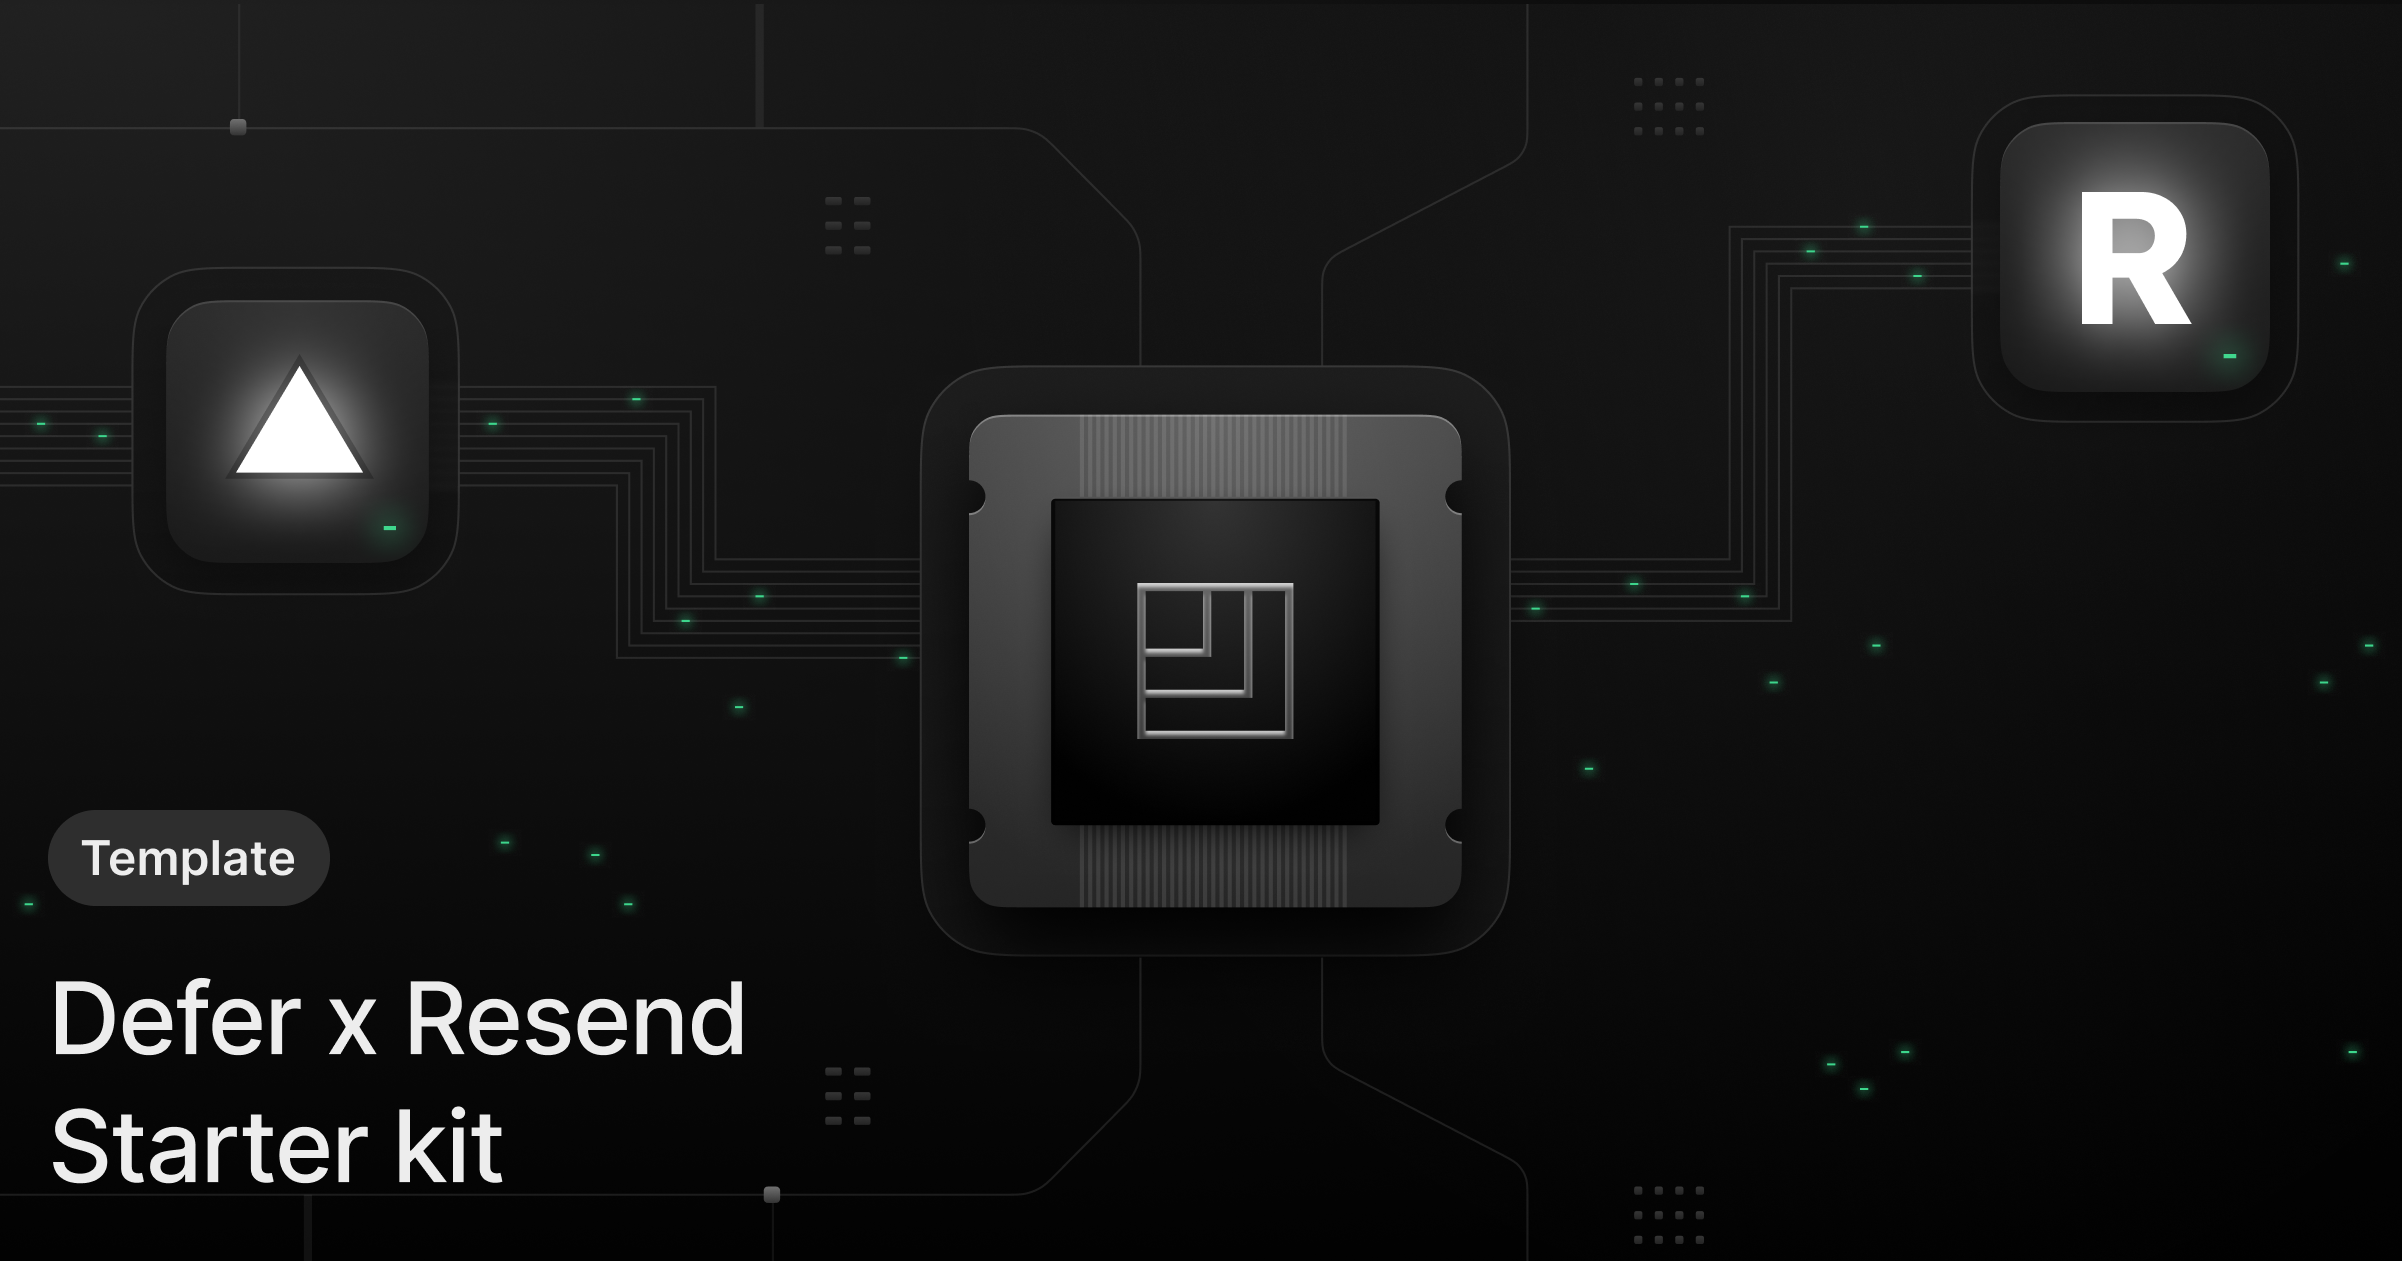
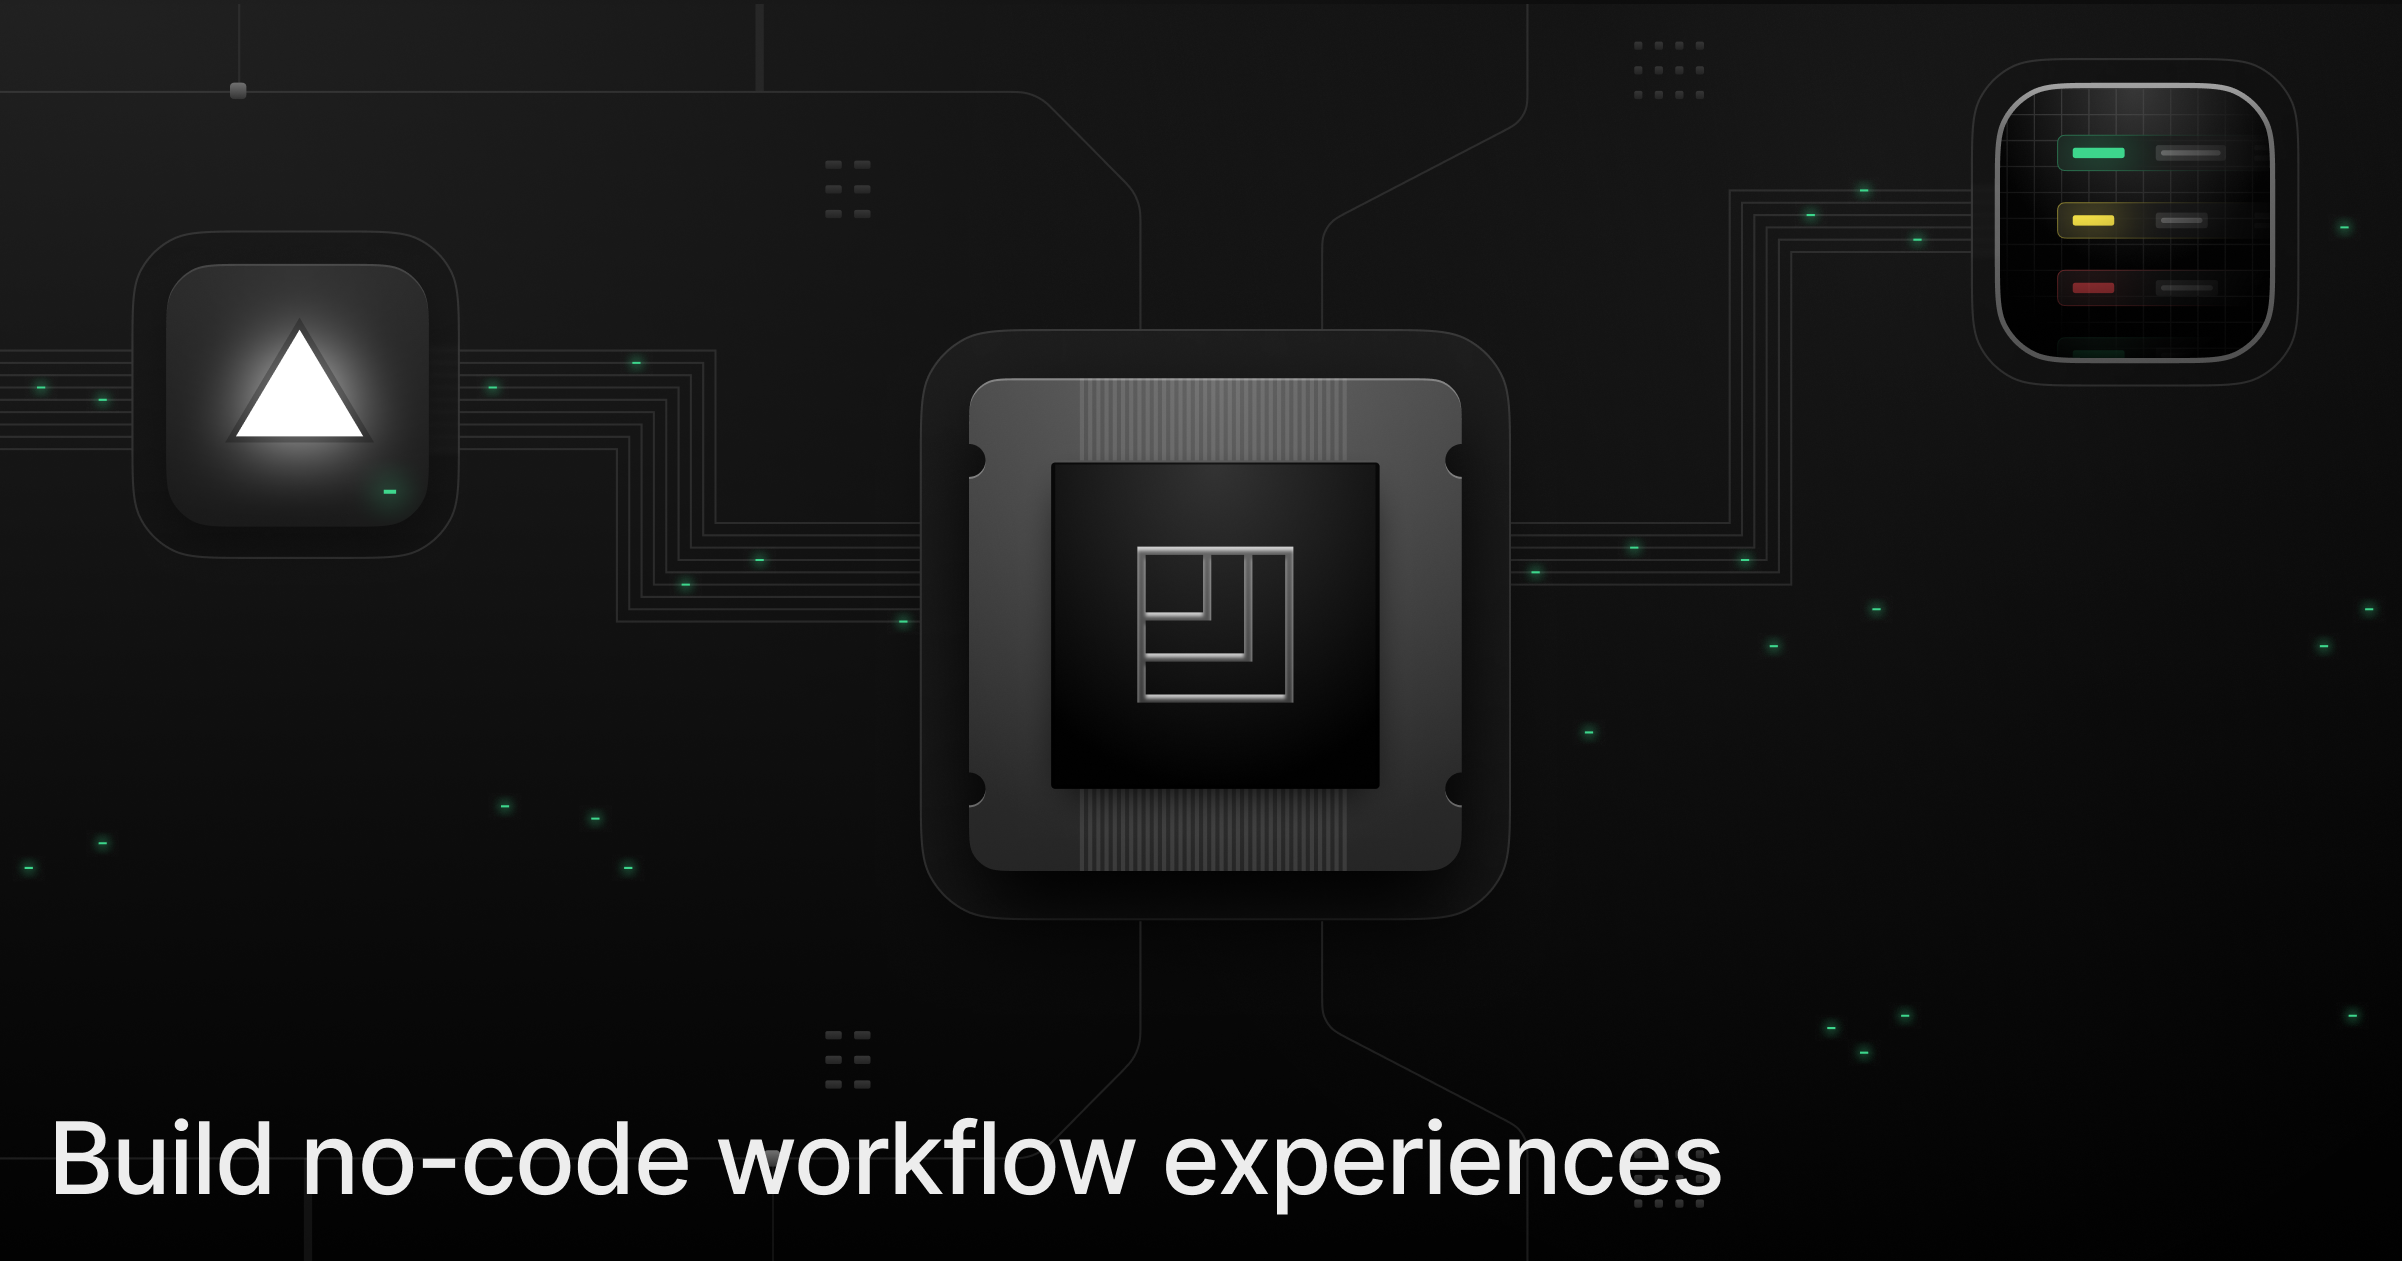
improvements

diff --git a/nextjs/user-workflow-template/app/page.tsx b/nextjs/user-workflow-template/app/page.tsx
@@ -12,6 +12,7 @@ import ReactFlow, {
   MarkerType,
   useReactFlow,
   ReactFlowProvider,
+  ReactFlowInstance,
 } from "reactflow";
 
 import { Action, Step, broofa } from "@/utils/workflow";
@@ -31,7 +32,7 @@ const START_EDGE: Edge<any> = {
   id: "first-edge",
   source: "trigger",
   target: "node-0",
-  type: "step",
+  type: "smoothstep",
 
   markerEnd: {
     type: MarkerType.ArrowClosed,
@@ -55,7 +56,7 @@ const END_EDGE: Edge<any> = {
   source: "trigger",
 
   target: "end",
-  type: "step",
+  type: "smoothstep",
   markerEnd: {
     type: MarkerType.ArrowClosed,
   },
@@ -79,7 +80,8 @@ function stepToLabel(
 }
 
 function Main() {
-  const { setViewport } = useReactFlow();
+  const [reactFlowInstance, setReactFlowInstance] =
+    useState<ReactFlowInstance<any, any>>();
   const [nodes, setNodes] = useNodesState([START_NODE, END_NODE(1)]);
   const [edges, setEdges] = useEdgesState([END_EDGE]);
 
@@ -138,7 +140,7 @@ function Main() {
           id: `target-${idx}`,
           source: `node-${idx}`,
           target: idx == s.length - 1 ? "end" : `node-${idx + 1}`,
-          type: "step",
+          type: "smoothstep",
           // animated: true,
           markerEnd: {
             type: MarkerType.ArrowClosed,
@@ -147,10 +149,6 @@ function Main() {
       ]);
     }
   }, [steps, stepAction]);
-
-  useEffect(() => {
-    setViewport({ x: 0, y: 0, zoom: 1 });
-  });
 
   const setStepAction: ChangeEventHandler<HTMLSelectElement> = useCallback(
     (e) => {
@@ -166,31 +164,40 @@ function Main() {
   }, [steps]);
 
   useEffect(() => {
-    const interval = setInterval(
+    const interval = setInterval(() => {
+      if (reactFlowInstance) {
+        reactFlowInstance.fitView();
+      }
       // leverage Server Actions to regurarly refresh the steps statuses
-      () => {
-        if (workflowID) {
-          listStepsStatus(workflowID!, steps).then((data) => {
-            console.log(data);
-            setNodes([
-              START_NODE,
-              ...steps.map(({ action, args }, idx) => ({
-                id: `node-${idx}`,
-                data: { label: stepToLabel(action, args, data[idx]) },
-                position: { x: 200 * (idx + 1), y: 100 },
-              })),
-              END_NODE(steps.length + 1, data[data.length - 1].data.length),
-            ]);
-          });
-        }
-      },
-      1000
-    );
+      if (workflowID) {
+        listStepsStatus(workflowID!, steps).then((data) => {
+          setNodes([
+            START_NODE,
+            ...steps.map(({ action, args }, idx) => ({
+              id: `node-${idx}`,
+              data: { label: stepToLabel(action, args, data[idx]) },
+              position: { x: 200 * (idx + 1), y: 100 },
+            })),
+            END_NODE(steps.length + 1, data[data.length - 1].data.length),
+          ]);
+          const workflowFinished = data[data.length - 1].data.length === 1000;
+          if (workflowFinished) {
+            setWorkflowId(undefined);
+          }
+        });
+      }
+    }, 1000);
     return () => clearInterval(interval);
   });
 
+  const resetWorkflow = useCallback(() => {
+    updateSteps([]);
+    setNodes([START_NODE, END_NODE(1)]);
+    setEdges([END_EDGE]);
+  }, []);
+
   return (
-    <div className="flex-1 w-full flex flex-col gap-20 items-center">
+    <div className="flex-1 w-full flex flex-col gap-6 items-center">
       <nav className="w-full flex justify-center border-b border-b-foreground/10 h-16">
         <div className="w-full max-w-4xl flex justify-between items-center p-3 text-sm">
           <Image src={logo} alt={"Defer"} className="flex-1 max-w-24" />
@@ -216,51 +223,52 @@ function Main() {
         </div>
       </nav>
 
-      <div className="flex flex-col gap-20 max-w-4xl px-3">
-        <main className="flex flex-col gap-4 justify-evenly">
-          <div className="py-2 px-3 rounded-md border flex gap-6 flex-col">
-            <div>
-              <h2 className="text-xl font-bold">
-                Build a user notification workflow
-              </h2>
-              <p>
-                <em>TODO</em>
-              </p>
-            </div>
-            <div className="flex">
-              <select onChange={setStepAction}>
-                <option value="wait-1">Wait 1 sec</option>
-                <option value="wait-3">Wait 3 secs</option>
-                <option value="wait-5">Wait 5 secs</option>
-                <option value="sendNotification">Send a notification</option>
-              </select>
-              <button
-                className={`ml-3 py-1 px-2 bg-black text-white flex rounded-md no-underline hover:bg-gray-800 border ${
-                  !!workflowID ? "cursor-not-allowed bg-gray-800" : ""
-                }`}
-                disabled={!!workflowID}
-                onClick={addStep}
-              >
-                Add step
-              </button>
-            </div>
-            <div className="flex justify-end">
-              <button
-                className={`py-1 px-2 bg-black text-white flex rounded-md no-underline hover:bg-gray-800 border  ${
-                  !!workflowID || steps.length === 0
-                    ? "cursor-not-allowed bg-gray-800"
-                    : ""
-                }`}
-                onClick={run}
-                disabled={!!workflowID || steps.length === 0}
-              >
-                {workflowID
-                  ? "Workflow running ..."
-                  : "Trigger workflow with 1,000 users"}
-              </button>
-            </div>
-          </div>
-        </main>
+      <div className="flex flew-row gap-6 justify-start">
+        <div className="flex">
+          <select onChange={setStepAction}>
+            <option value="wait-1">Wait 1 sec</option>
+            <option value="wait-3">Wait 3 secs</option>
+            <option value="wait-5">Wait 5 secs</option>
+            <option value="sendNotification">Send a notification</option>
+          </select>
+          <button
+            className={`ml-3 py-1 px-2 bg-black text-white flex rounded-md no-underline hover:bg-gray-800 border ${
+              !!workflowID ? "cursor-not-allowed bg-gray-800" : ""
+            }`}
+            disabled={!!workflowID}
+            onClick={addStep}
+          >
+            Add step
+          </button>
+        </div>
+        <div className="flex justify-end">
+          <button
+            className={`py-1 px-2 bg-black text-white flex rounded-md no-underline hover:bg-gray-800 border  ${
+              !!workflowID || steps.length === 0
+                ? "cursor-not-allowed bg-gray-800"
+                : ""
+            }`}
+            onClick={run}
+            disabled={!!workflowID || steps.length === 0}
+          >
+            {workflowID
+              ? "Workflow running ..."
+              : "Simulate workflow for 1,000 users"}
+          </button>
+        </div>
+        <div className="flex justify-end">
+          <button
+            className={`py-1 px-2 bg-white text-black flex rounded-md no-underline hover:bg-gray-100 border  ${
+              !!workflowID || steps.length === 0
+                ? "cursor-not-allowed bg-gray-100"
+                : ""
+            }`}
+            onClick={resetWorkflow}
+            disabled={!!workflowID || steps.length === 0}
+          >
+            {"Reset Workflow"}
+          </button>
+        </div>
       </div>
 
       <div className="h-[500px] w-full">
@@ -271,11 +279,11 @@ function Main() {
           onEdgesChange={() => {}}
           snapToGrid={true}
           snapGrid={[20, 20]}
-          defaultViewport={{ x: 0, y: 0, zoom: 1 }}
           fitView
           attributionPosition="bottom-left"
           nodesDraggable={false}
           nodesFocusable={false}
+          onInit={(instance) => setReactFlowInstance(instance)}
         >
           <Controls />
         </ReactFlow>

diff --git a/nextjs/user-workflow-template/defer/triggers/userEvents.ts b/nextjs/user-workflow-template/defer/triggers/userEvents.ts
@@ -7,13 +7,13 @@ import workflow from "../workflow";
 async function triggerUserEvents(workflowID: string, steps: Step[]) {
   let events = 1000;
   while (events > 0) {
-    let num = Math.floor(Math.random() * 100) + 1;
+    let num = Math.floor(Math.random() * 100) + 20;
     events -= num;
     if (events < 0) {
       num += events;
     }
 
-    await sleep(Math.floor(Math.random() * 1000) + 1);
+    await sleep(Math.floor(Math.random() * 2000) + 1000);
 
     for (let index = 0; index < num; index++) {
       await workflow(workflowID, steps);

diff --git a/nextjs/user-workflow-template/README.md b/nextjs/user-workflow-template/README.md
@@ -1,9 +1,7 @@
-![Defer with Resend template](./app/og_image.png)
-
-<h1 align="center">Next.js with Resend and Defer</h1>
+![Build no code experiences with Defer](./app/og_image.png)
 
 <p align="center">
- Offload or schedule the sending of emails to Defer while benefiting from Resend rich emails.
+ Leverage Defer's Epoque Scheduler API to build no-code experiences
 </p>
 
 <p align="center">
@@ -17,43 +15,40 @@
 </p>
 <br/>
 
-## Features
+## Overview
 
-By combining Defer and Resend, send and schedule rich-styled emails in minutes, while keeping full control over their scheduling with:
-
-- [Delayed Executions](https://www.defer.run/docs/features/delays)
-- [CRONs](https://www.defer.run/docs/features/cron)
-- [Workflows](https://www.defer.run/docs/guides/onboarding-workflow)
-- Advanced configuration: [Retries](https://www.defer.run/docs/features/retries), [Concurrency](https://www.defer.run/docs/features/concurrency) or, [Cancellation](https://www.defer.run/docs/features/cancellation)
+Building a Workflow Builder UI is a whole product inside a product, with complexity from the front-end (drag-and-drop, complex local states) conception to the back-end
+and infrastructure required to run the workflows (scheduling capabilities, compute scaling, reliability).
 
 <br />
 
-This Next.js Demo comes with a CRON sending multiple monthly usage report emails with an attached PDF invoice.
-
-See how Defer fits perfectly with [Next.js Server Actions](./app/actions/actions.ts), enabling you to trigger Background Functions from [Client-Side Components](./app/page.tsx).
+This demo leverages the [`@defer/client/next`](https://www.defer.run/blog/defer-vercel) integration to integrate the Workflow steps,
+as [Defer Background Functions](./defer/workflow.ts), directly from the Next.js Client Components, leveraging [Next.js Server Actions](./app/actions/actions.ts).
 
 <br />
 
 ## Deploy to Vercel
 
-1. First, click on the following button will fork this demo repository and deploy it on your Vercel account: [![Deploy with Vercel](https://vercel.com/button)](https://vercel.com/new/clone?repository-url=https%3A%2F%2Fgithub.com%2Fdefer-run%2Fdefer.demo%2Ftree%2Fmaster%2Fnextjs%2Fresend-template%2F&project-name=nextjs-with-defer-resend&repository-name=nextjs-with-defer-resend&demo-title=nextjs-with-defer-resend&demo-description=Schedule%20or%20offload%20the%20sending%20of%20rich%20emails%20with%20Resend.&demo-url=https%3A%2F%2Fnextjs-with-defer-resend-resend.vercel.app%2F&external-id=https%3A%2F%2Fgithub.com%2Fdefer-run%2Fdefer.demo%2Ftree%2Fmaster%2Fnextjs%2Fresend-template%2F&demo-image=https%3A%2F%2Fraw.githubusercontent.com%2Fdefer-run%2Fdefer.demo%2Fmaster%2Fnextjs%2Fresend-template%2Fapp%2Fog_image.png&integration-ids=)
+1. First, click on the following button will fork this demo repository and deploy it on your Vercel account: [![Deploy with Vercel](https://vercel.com/button)](https://vercel.com/new/clone?repository-url=https%3A%2F%2Fgithub.com%2Fdefer-run%2Fdefer.demo%2Ftree%2Fmaster%2Fnextjs%2Fuser-workflow-template%2F&project-name=nextjs-workflow-builder-with-defer&repository-name=nextjs-workflow-builder-with-defer&demo-title=nextjs-workflow-builder-with-defer&demo-description=A%20User%20Notification%20Builder%20built%20with%20Defer&demo-url=https%3A%2F%2Fnextjs-workflow-builder-with-defer.vercel.app%2F&external-id=https%3A%2F%2Fgithub.com%2Fdefer-run%2Fdefer.demo%2Ftree%2Fmaster%2Fnextjs%2Fuser-workflow-template%2F&demo-image=https%3A%2F%2Fraw.githubusercontent.com%2Fdefer-run%2Fdefer.demo%2Fmaster%2Fnextjs%2Fuser-workflow-template%2Fapp%2Fog_image.png&integration-ids=)
 
-2. Once deployed on Vercel, go on the [Defer Console to create an account](https://console.defer.run/).
+2. Once deployed on Vercel, go to the [Defer](https://console.defer.run/) Console to [create an account](https://console.defer.run/).
 
 3. Then, create a new Defer application by selecting your GitHub repository created from this template.
 
 4. Finally, go to the [Defer Vercel Integration page](https://vercel.com/integrations/defer) (_Click "Add Integration"_) to connect your Vercel application with your Defer ones.
 
-5. You are go to go! The tasks will now run on Defer, triggered from your Vercel demo application 🚀
+5. You are good to go! The tasks will now run on Defer, triggered from your Vercel demo application 🚀
 
 <br />
 
 ## Clone and run locally
 
+This demo is local-first:
+
 1. Create a Next.js app using this template with the `npx command`:
 
    ```bash
-   npx create-next-app -e https://github.com/defer-run/defer.demo/tree/master/nextjs/resend-template
+   npx create-next-app -e https://github.com/defer-run/defer.demo/tree/master/nextjs/user-workflow-template
    ```
 
 2. Use `cd` to change into the app's directory
